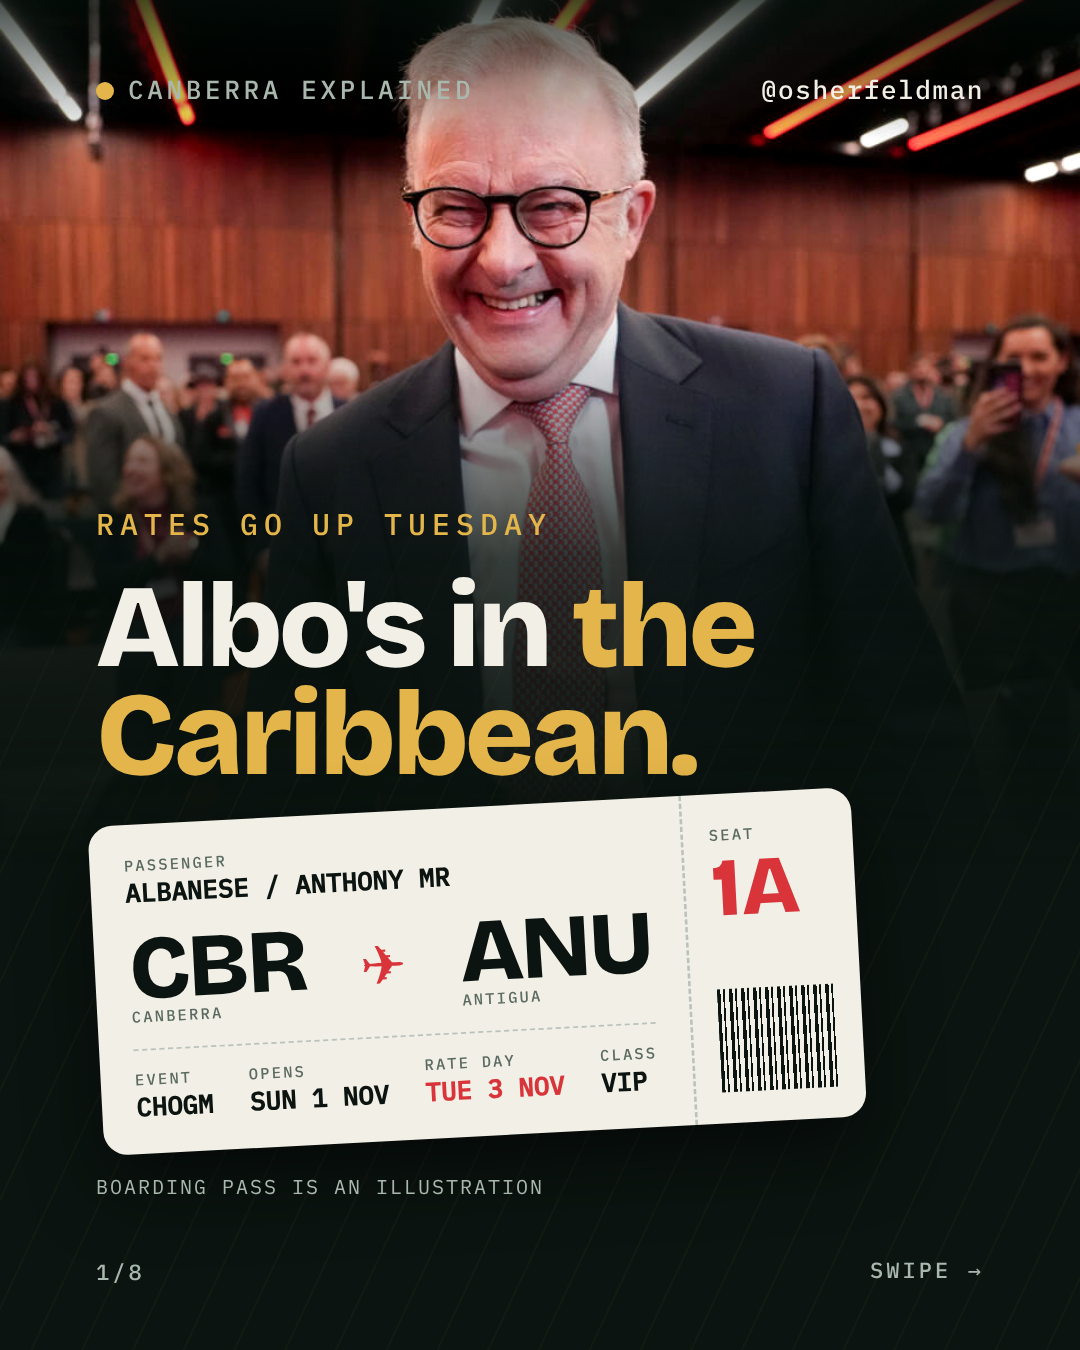
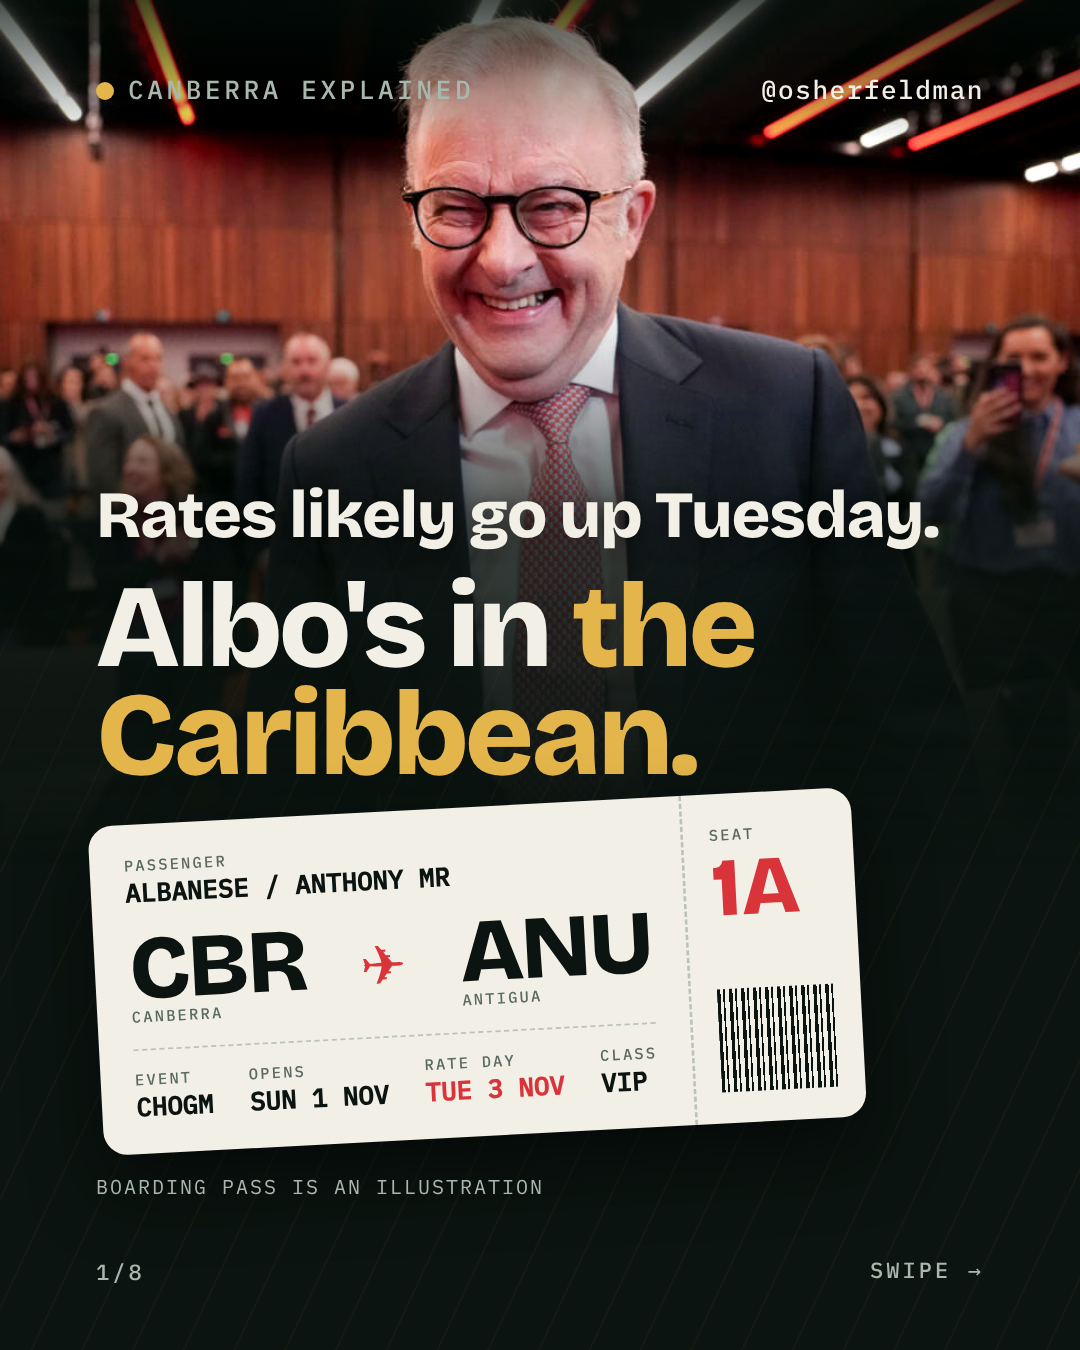
Cover: 'Rates likely go up Tuesday', larger
Claude-Session: https://claude.ai/code/session_01Sgrt9V1fmYhj6jZ8Z8u2QD

Changed region(s): [[0.0917, 0.3422, 0.8861, 0.4044]]

diff --git a/carousel/build.js b/carousel/build.js
@@ -11,7 +11,7 @@ const chrome = (i, dark = true) => `<div class="hd"><span><i></i>Canberra explai
 const slides = [
 // 1 cover: boarding pass
 `<div class="s cover"><div class="photo" style="background-image:url(${photo})"></div>${chrome(1)}
- <div class="kick">Rates go up Tuesday</div>
+ <div class="kick big">Rates likely go up Tuesday.</div>
  <h1>Albo's in <em>the Caribbean.</em></h1>
  <div class="pass">
   <div class="pl"><div class="row"><div><small>Passenger</small><b>ALBANESE / ANTHONY MR</b></div></div>
@@ -111,6 +111,7 @@ blockquote{margin:0;font-size:92px;font-weight:800;line-height:.98;letter-spacin
 .cover .hd,.cover .ft,.cover .kick,.cover h1,.cover .pass,.cover .note{position:relative;z-index:1}
 .cover .hd{position:absolute}.cover .ft{position:absolute}
 .cover h1{font-size:118px}
+.cover .kick.big{font:800 66px B,sans-serif;letter-spacing:-.02em;text-transform:none;color:var(--ink);line-height:1;margin-bottom:-6px;text-shadow:0 4px 24px rgba(0,0,0,.6)}
 .cover .pass{transform:rotate(-3deg) scale(.86);transform-origin:left center;margin:-20px 0 -30px}
 .cover .route big{font-size:104px}
 .cal{display:flex;flex-direction:column;gap:26px}
